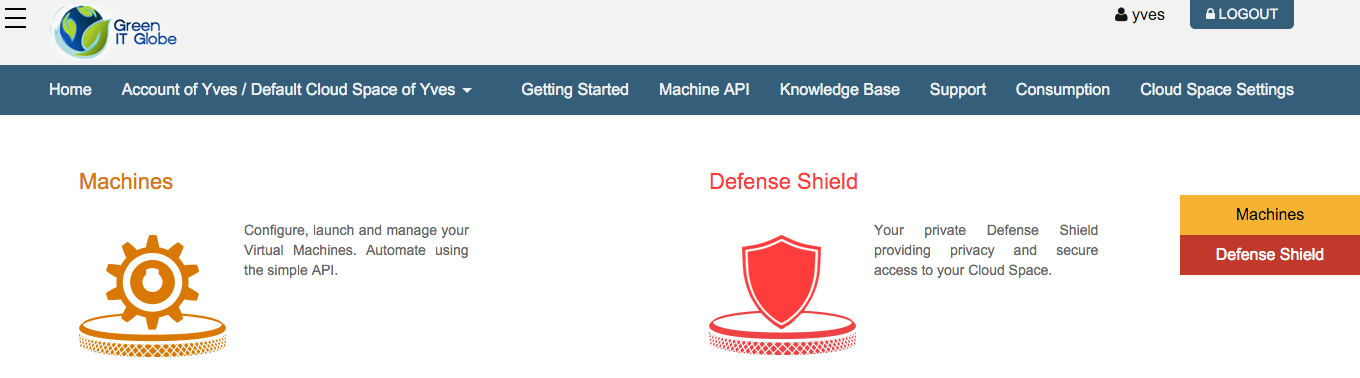
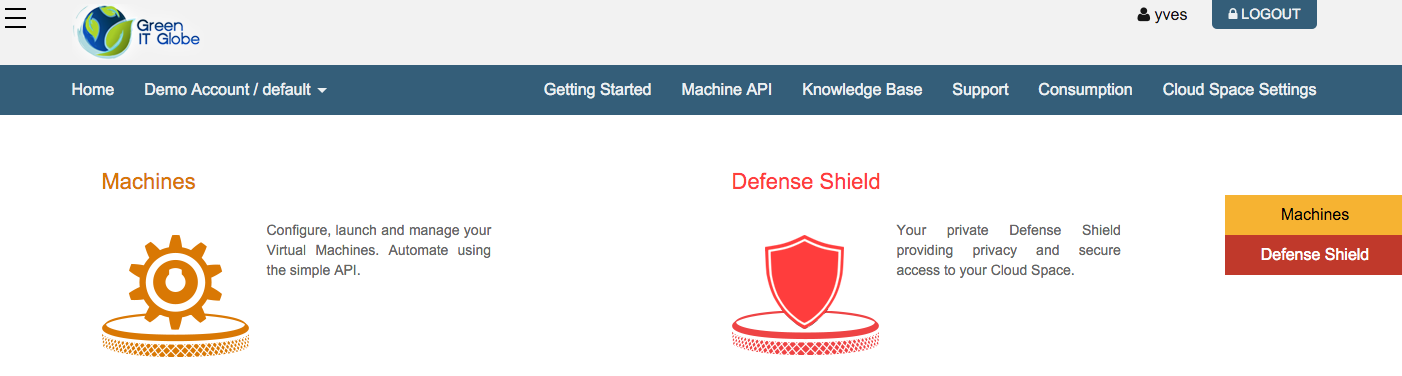
Updated End User Portal Home Page documentation

diff --git a/EndUserPortal/Home/Home.md b/EndUserPortal/Home/Home.md
@@ -1,3 +1,31 @@
 # End User Portal Home Page
 
+Once logged in a user to the End User Portal you will see the home page:
+
 ![](Home.png)
+
+In this screenshot you can see in the top right corner that a user with username 'yves' is logged in.
+
+In the top navigation bar, next to **Home** you choose the cloud space that you want to use. In the example shown here, the default cloud space of the account 'Demo Account' is selected.
+
+When you click the dropdown arrow next to the selected cloud space a list appears showing all other accounts and cloud spaces the logged in user has access to:
+
+![](CloudSpaces.png)
+
+In this example the logged in used has access to three accounts, and within the "Account of Yves" account to 2 distinct cloud spaces.
+
+From this dropdown menu the user can also create a new cloud space:
+
+![](NewCloudSpace.png)
+
+In the **New Cloud Space** dialog window you have indicate in which account you wish to create the new cloud space, give it a name and specify the location where the cloud space needs to be hosted.
+
+Once the new cloud space got created, the new cloud space will be auto-selected in the top navigation bar:
+
+![](NewCloudSpaceSelected.png)
+
+Clicking again the dropdown arrow next to the selection, you can verify that the new cloud space has indeed been created in the specified account, here in the 'Demo Account':
+
+![](CloudSpaces2.png)
+
+From here you will want to review/update the settings of your cloud space: ()[../CloudSpaceSettings/CloudspaceSettings.md]
